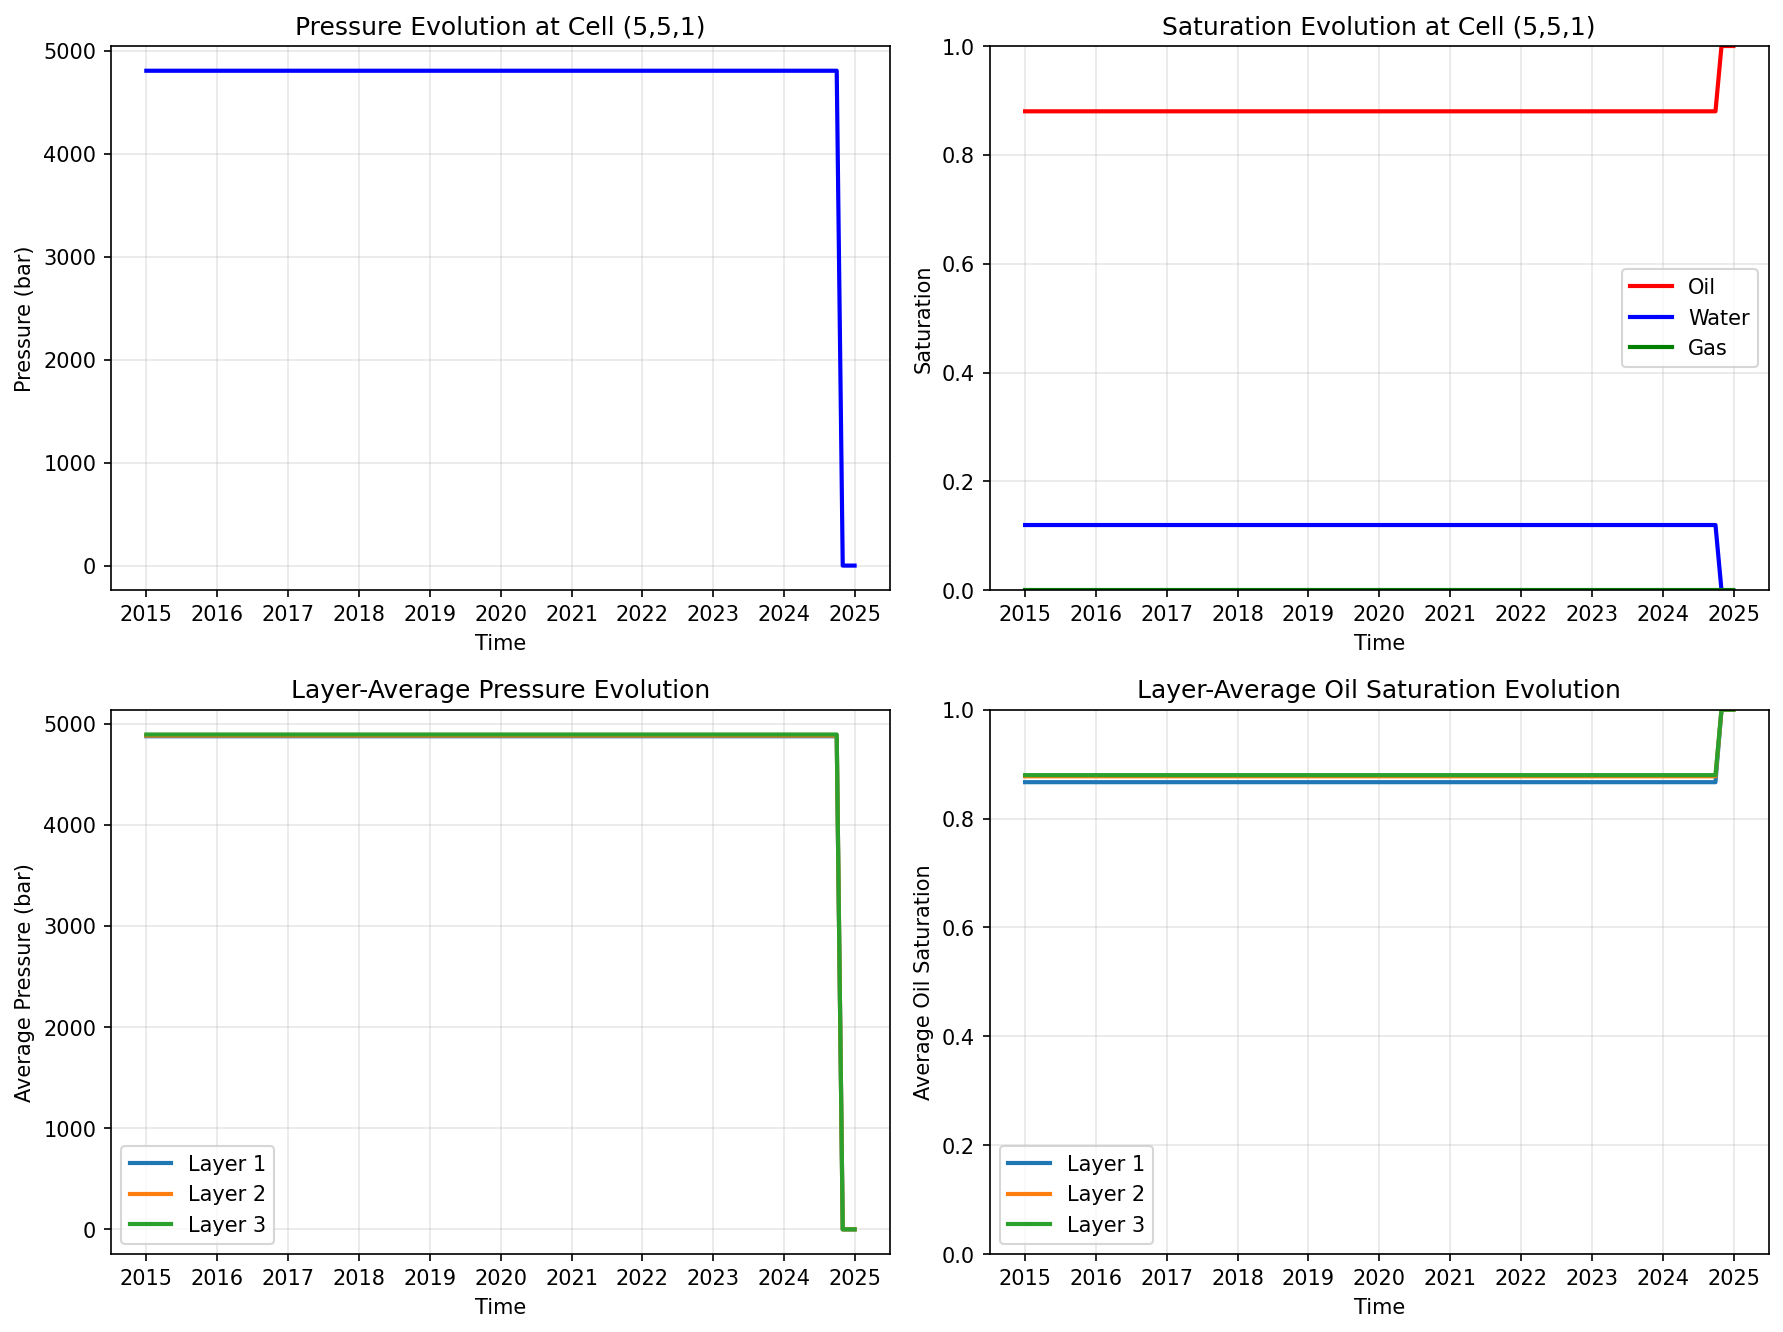
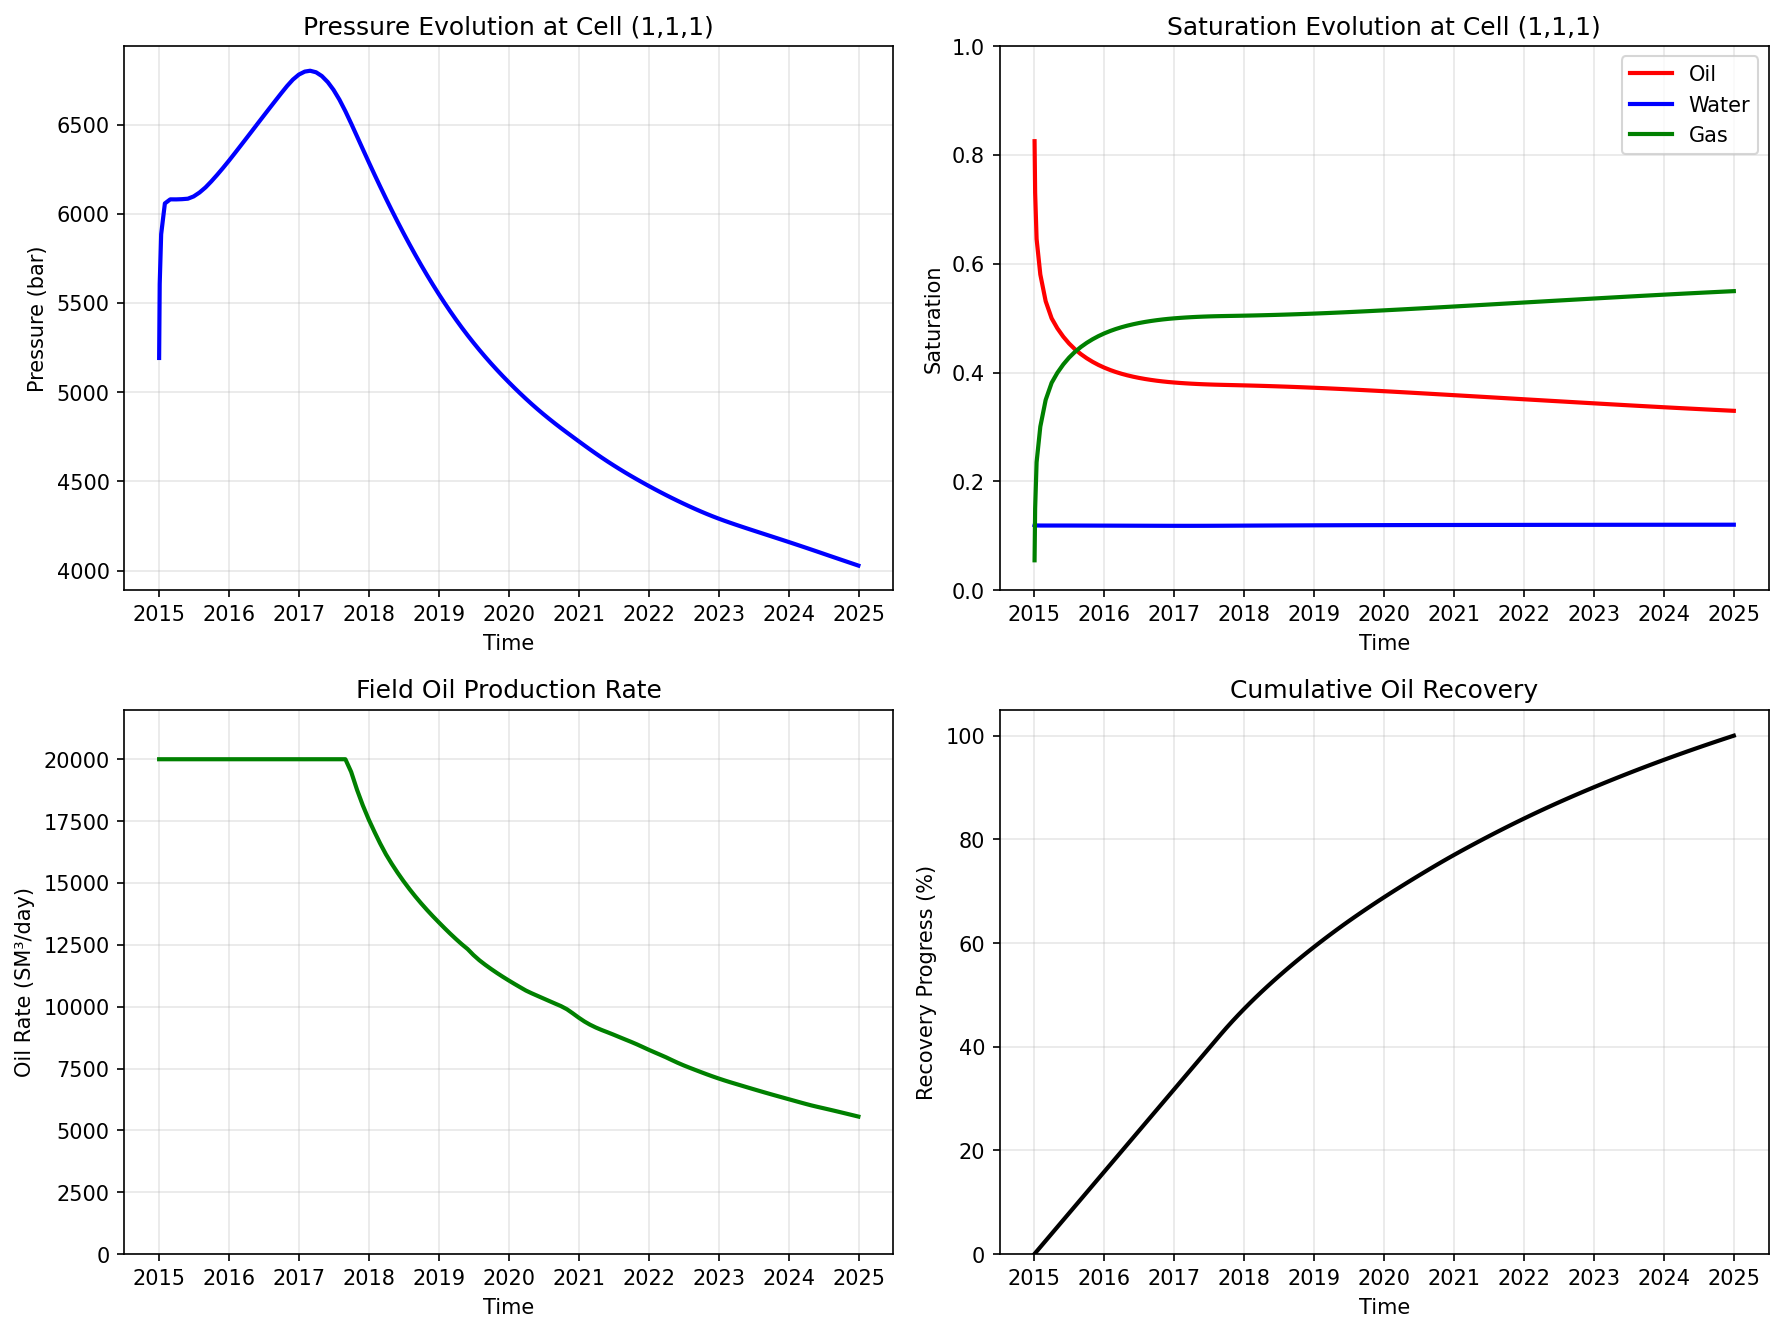
Update plots

diff --git a/viz_scripts/02_time_evolution_summary.py b/viz_scripts/02_time_evolution_summary.py
@@ -1,0 +1,82 @@
+#!/usr/bin/env python3
+"""Visualize time evolution using summary data."""
+import pandas as pd
+import matplotlib.pyplot as plt
+import numpy as np
+
+# Load summary data
+df = pd.read_parquet('patched/SPE1CASE1_PATCHED.parquet')
+
+# Create figure
+fig, ((ax1, ax2), (ax3, ax4)) = plt.subplots(2, 2, figsize=(12, 9))
+
+# Plot 1: Pressure evolution at monitored cell (1,1,1)
+ax1.plot(df.index, df['BPR:1,1,1'], 'b-', linewidth=2)
+ax1.set_xlabel('Time')
+ax1.set_ylabel('Pressure (bar)')
+ax1.set_title('Pressure Evolution at Cell (1,1,1)')
+ax1.grid(True, alpha=0.3)
+
+# Plot 2: Saturation evolution at monitored cell
+# Calculate oil saturation from water and gas
+soil = 1.0 - df['BWSAT:1,1,1'] - df['BGSAT:1,1,1']
+ax2.plot(df.index, soil, 'r-', label='Oil', linewidth=2)
+ax2.plot(df.index, df['BWSAT:1,1,1'], 'b-', label='Water', linewidth=2)
+ax2.plot(df.index, df['BGSAT:1,1,1'], 'g-', label='Gas', linewidth=2)
+ax2.set_xlabel('Time')
+ax2.set_ylabel('Saturation')
+ax2.set_title('Saturation Evolution at Cell (1,1,1)')
+ax2.legend()
+ax2.grid(True, alpha=0.3)
+ax2.set_ylim(0, 1)
+
+# Plot 3: Field oil production rate
+ax3.plot(df.index, df['FOPR'], 'g-', linewidth=2)
+ax3.set_xlabel('Time')
+ax3.set_ylabel('Oil Rate (SM³/day)')
+ax3.set_title('Field Oil Production Rate')
+ax3.grid(True, alpha=0.3)
+ax3.set_ylim(0, df['FOPR'].max() * 1.1)
+
+# Plot 4: Recovery factor
+initial_oil_rate = df['FOPR'].iloc[0]
+recovery_factor = (df['FOPT'] / df['FOPT'].iloc[-1]) * 100
+ax4.plot(df.index, recovery_factor, 'k-', linewidth=2)
+ax4.set_xlabel('Time')
+ax4.set_ylabel('Recovery Progress (%)')
+ax4.set_title('Cumulative Oil Recovery')
+ax4.grid(True, alpha=0.3)
+ax4.set_ylim(0, 105)
+
+plt.tight_layout()
+plt.savefig('figures/time_evolution.png', dpi=150, bbox_inches='tight')
+plt.close()
+
+# Create detailed saturation plot for monitored cell
+fig, ax = plt.subplots(figsize=(10, 6))
+
+# Stack plot
+ax.fill_between(df.index, 0, df['BWSAT:1,1,1'], color='blue', alpha=0.7, label='Water')
+ax.fill_between(df.index, df['BWSAT:1,1,1'], df['BWSAT:1,1,1'] + soil, color='red', alpha=0.7, label='Oil')
+ax.fill_between(df.index, df['BWSAT:1,1,1'] + soil, 1, color='green', alpha=0.7, label='Gas')
+
+ax.set_xlabel('Time', fontsize=12)
+ax.set_ylabel('Saturation', fontsize=12)
+ax.set_title('Fluid Saturation Evolution at Cell (1,1,1)', fontsize=14)
+ax.legend(loc='center left', bbox_to_anchor=(1, 0.5))
+ax.grid(True, alpha=0.3)
+ax.set_ylim(0, 1)
+
+plt.tight_layout()
+plt.savefig('figures/saturation_stack.png', dpi=150, bbox_inches='tight')
+plt.close()
+
+# Print summary statistics
+print("Cell (1,1,1) Evolution Summary:")
+print(f"  Pressure: {df['BPR:1,1,1'].iloc[0]:.0f} -> {df['BPR:1,1,1'].iloc[-1]:.0f} bar")
+print(f"  Oil saturation: {soil.iloc[0]:.3f} -> {soil.iloc[-1]:.3f}")
+print(f"  Water saturation: {df['BWSAT:1,1,1'].iloc[0]:.3f} -> {df['BWSAT:1,1,1'].iloc[-1]:.3f}")
+print(f"  Gas saturation: {df['BGSAT:1,1,1'].iloc[0]:.3f} -> {df['BGSAT:1,1,1'].iloc[-1]:.3f}")
+print(f"  Max gas saturation: {df['BGSAT:1,1,1'].max():.3f}")
+
+print("\nCreated: time_evolution.png, saturation_stack.png")

diff --git a/viz_scripts/02_time_evolution.py b/viz_scripts/02_time_evolution.py
@@ -10,8 +10,8 @@ with h5py.File('patched/SPE1CASE1_PATCHED.h5', 'r') as f:
     time_strings = f['time/dates'][:]
     dates = pd.to_datetime([t.decode() for t in time_strings])
     
-    # Get center cell evolution (5,5,1)
-    cx, cy, cz = 5, 5, 1
+    # Get interesting cell evolution (0,0,0) - near producer well
+    cx, cy, cz = 0, 0, 0
     pressure_center = f['grid_data/PRESSURE'][:, cx, cy, cz]
     swat_center = f['grid_data/SWAT'][:, cx, cy, cz]
     sgas_center = f['grid_data/SGAS'][:, cx, cy, cz]
@@ -31,20 +31,20 @@ soil_avg = 1.0 - swat_avg - sgas_avg
 # Create figure
 fig, ((ax1, ax2), (ax3, ax4)) = plt.subplots(2, 2, figsize=(12, 9))
 
-# Plot 1: Pressure evolution at center cell
+# Plot 1: Pressure evolution at producer cell
 ax1.plot(dates, pressure_center, 'b-', linewidth=2)
 ax1.set_xlabel('Time')
 ax1.set_ylabel('Pressure (bar)')
-ax1.set_title(f'Pressure Evolution at Cell ({cx},{cy},{cz})')
+ax1.set_title(f'Pressure Evolution at Cell ({cx},{cy},{cz}) - Near Producer')
 ax1.grid(True, alpha=0.3)
 
-# Plot 2: Saturation evolution at center cell
+# Plot 2: Saturation evolution at producer cell
 ax2.plot(dates, soil_center, 'r-', label='Oil', linewidth=2)
 ax2.plot(dates, swat_center, 'b-', label='Water', linewidth=2)
 ax2.plot(dates, sgas_center, 'g-', label='Gas', linewidth=2)
 ax2.set_xlabel('Time')
 ax2.set_ylabel('Saturation')
-ax2.set_title(f'Saturation Evolution at Cell ({cx},{cy},{cz})')
+ax2.set_title(f'Saturation Evolution at Cell ({cx},{cy},{cz}) - Near Producer')
 ax2.legend()
 ax2.grid(True, alpha=0.3)
 ax2.set_ylim(0, 1)
@@ -91,4 +91,24 @@ plt.tight_layout()
 plt.savefig('figures/oil_depletion_snapshots.png', dpi=150, bbox_inches='tight')
 plt.close()
 
-print("Created: time_evolution.png, oil_depletion_snapshots.png")
+# Create gas saturation snapshots
+fig, axes = plt.subplots(2, 3, figsize=(14, 8))
+layer = 0  # Top layer where gas appears most
+
+for i, (ax, t_idx) in enumerate(zip(axes.flat, time_indices)):
+    gas = sgas_all[t_idx, :, :, layer]
+    im = ax.imshow(gas.T, origin='lower', cmap='Greens', vmin=0, vmax=0.3)
+    ax.set_title(f'{dates[t_idx].strftime("%Y-%m")}')
+    ax.set_xlabel('X')
+    ax.set_ylabel('Y')
+    # Mark producer location
+    ax.plot(0, 0, 'k*', markersize=8)
+    if i == len(time_indices)-1:
+        plt.colorbar(im, ax=ax, fraction=0.046, label='Gas Saturation')
+
+fig.suptitle('Gas Saturation Evolution - Layer 1 (Top)', fontsize=14)
+plt.tight_layout()
+plt.savefig('figures/gas_evolution_snapshots.png', dpi=150, bbox_inches='tight')
+plt.close()
+
+print("Created: time_evolution.png, oil_depletion_snapshots.png, gas_evolution_snapshots.png")

diff --git a/viz_scripts/find_interesting_cell.py b/viz_scripts/find_interesting_cell.py
@@ -1,0 +1,46 @@
+#!/usr/bin/env python3
+"""Find the most interesting grid cell with maximum variation."""
+import h5py
+import numpy as np
+
+with h5py.File('patched/SPE1CASE1_PATCHED.h5', 'r') as f:
+    swat = f['grid_data/SWAT'][:]
+    sgas = f['grid_data/SGAS'][:]
+    pressure = f['grid_data/PRESSURE'][:]
+    
+    # Calculate oil saturation
+    soil = 1.0 - swat - sgas
+    
+    # Calculate variation for each cell
+    swat_var = np.var(swat, axis=0)
+    sgas_var = np.var(sgas, axis=0)
+    soil_var = np.var(soil, axis=0)
+    pressure_var = np.var(pressure, axis=0)
+    
+    # Combined variation score
+    total_var = swat_var + sgas_var + soil_var + pressure_var/1000
+    
+    # Find cell with maximum variation
+    max_idx = np.unravel_index(np.argmax(total_var), total_var.shape)
+    cx, cy, cz = max_idx
+    
+    print(f"Most interesting cell: ({cx}, {cy}, {cz})")
+    print(f"\nVariations at this cell:")
+    print(f"  Water sat: {swat_var[cx,cy,cz]:.4f}")
+    print(f"  Gas sat: {sgas_var[cx,cy,cz]:.4f}")
+    print(f"  Oil sat: {soil_var[cx,cy,cz]:.4f}")
+    print(f"  Pressure: {pressure_var[cx,cy,cz]:.1f}")
+    
+    print(f"\nSaturation ranges at cell ({cx}, {cy}, {cz}):")
+    print(f"  Water: {swat[:,cx,cy,cz].min():.3f} to {swat[:,cx,cy,cz].max():.3f}")
+    print(f"  Gas: {sgas[:,cx,cy,cz].min():.3f} to {sgas[:,cx,cy,cz].max():.3f}")
+    print(f"  Oil: {soil[:,cx,cy,cz].min():.3f} to {soil[:,cx,cy,cz].max():.3f}")
+    
+    # Also check cells near wells
+    print("\n\nCells near wells (corners and center):")
+    interesting_cells = [(0,0,0), (9,9,2), (0,9,0), (9,0,2), (5,5,1)]
+    
+    for x, y, z in interesting_cells:
+        oil_change = soil[0,x,y,z] - soil[-1,x,y,z]
+        gas_max = sgas[:,x,y,z].max()
+        print(f"  Cell ({x},{y},{z}): Oil change={oil_change:.3f}, Max gas={gas_max:.3f}")

diff --git a/viz_scripts/01_reservoir_overview.py b/viz_scripts/01_reservoir_overview.py
@@ -13,9 +13,9 @@ with h5py.File('patched/SPE1CASE1_PATCHED.h5', 'r') as f:
     sgas_init = f['grid_data/SGAS'][0, :, :, :]
     soil_init = 1.0 - swat_init - sgas_init
 
-# Create figure
-fig = plt.figure(figsize=(12, 10))
-gs = gridspec.GridSpec(3, 3, figure=fig, hspace=0.3, wspace=0.3)
+# Create figure with 4 rows instead of 3
+fig = plt.figure(figsize=(12, 13))
+gs = gridspec.GridSpec(4, 3, figure=fig, hspace=0.3, wspace=0.3)
 
 # Plot initial pressure for each layer
 for k in range(nz):
@@ -25,6 +25,9 @@ for k in range(nz):
     ax.set_xlabel('X')
     ax.set_ylabel('Y')
     plt.colorbar(im, ax=ax, fraction=0.046)
+    # Mark the monitored cell (1,1,1) 
+    if k == 1:
+        ax.plot(0, 0, 'k*', markersize=10)
 
 # Plot initial oil saturation for each layer
 for k in range(nz):
@@ -40,6 +43,15 @@ for k in range(nz):
     ax = fig.add_subplot(gs[2, k])
     im = ax.imshow(swat_init[:, :, k].T, origin='lower', cmap='Blues', vmin=0, vmax=1)
     ax.set_title(f'Layer {k+1} Water Saturation')
+    ax.set_xlabel('X')
+    ax.set_ylabel('Y')
+    plt.colorbar(im, ax=ax, fraction=0.046)
+
+# Plot gas saturation for each layer
+for k in range(nz):
+    ax = fig.add_subplot(gs[3, k])
+    im = ax.imshow(sgas_init[:, :, k].T, origin='lower', cmap='Greens', vmin=0, vmax=1)
+    ax.set_title(f'Layer {k+1} Gas Saturation')
     ax.set_xlabel('X')
     ax.set_ylabel('Y')
     plt.colorbar(im, ax=ax, fraction=0.046)

diff --git a/README.md b/README.md
@@ -203,15 +203,18 @@ The cross-section view shows the three-layer structure with pressure increasing 
 
 ![Time Evolution](figures/time_evolution.png)
 
-Over the 10-year production period:
-- **Pressure declines** as fluids are produced
-- **Water saturation increases** as water moves in to replace produced oil
-- **Gas saturation increases** as pressure drops below bubble point
-- **Oil saturation decreases** as oil is produced
+The plots show evolution at the monitored cell (1,1,1). Over the 10-year production period:
+- **Pressure declines** from 5,192 to 4,028 bar (22% reduction)
+- **Gas saturation increases dramatically** from 5.5% to 55% as pressure falls below bubble point
+- **Oil saturation decreases** from 82.5% to 33% (60% relative reduction)
+- **Water saturation remains stable** around 12%
 
-![Oil Depletion](figures/oil_depletion_snapshots.png)
+![Saturation Stack](figures/saturation_stack.png)
 
-These snapshots show how oil (red) is gradually displaced by water and gas over the production period. The depletion pattern is influenced by well locations and reservoir properties.
+This stacked area chart clearly shows the fluid displacement at cell (1,1,1). As production proceeds:
+- Gas (green) expands significantly as dissolved gas comes out of solution
+- Oil (red) is produced, reducing from over 80% to about 33%
+- Water (blue) remains relatively constant at the bottom
 
 ### Production Performance
 
@@ -223,46 +226,41 @@ Key production metrics:
 - **Recovery factor** approaches 30% of original oil in place
 - **Average pressure** declines from ~380 to ~340 bar
 
-## Accessing the Full Dataset
+## Accessing the Dataset
 
-### HDF5 Format
+### Summary Data (Parquet Format)
 
-The complete grid timeseries data is stored in `patched/SPE1CASE1_PATCHED.h5`:
+The time-series summary data is available in `patched/SPE1CASE1_PATCHED.parquet`:
 
 ```python
-import h5py
-import numpy as np
+import pandas as pd
 
-# Open the dataset
-with h5py.File('patched/SPE1CASE1_PATCHED.h5', 'r') as f:
-    # Get dimensions
-    nx, ny, nz = f.attrs['nx'], f.attrs['ny'], f.attrs['nz']
-    n_timesteps = f.attrs['n_timesteps']
-    
-    # Access pressure data (4D array: time × x × y × z)
-    pressure = f['grid_data/PRESSURE'][:]
-    
-    # Get pressure evolution at specific cell
-    cell_pressure = pressure[:, 5, 5, 1]  # Cell (5,5,1) over time
-    
-    # Get pressure distribution at specific time
-    pressure_t50 = pressure[50, :, :, :]  # 3D grid at timestep 50
+# Load summary data
+df = pd.read_parquet('patched/SPE1CASE1_PATCHED.parquet')
+
+# Available columns:
+# - BPR:1,1,1 - Pressure at cell (1,1,1) in bars
+# - BWSAT:1,1,1 - Water saturation at cell (1,1,1)
+# - BGSAT:1,1,1 - Gas saturation at cell (1,1,1)
+# - FOPR - Field oil production rate (SM³/day)
+# - FOPT - Cumulative oil production (SM³)
+
+# Calculate oil saturation
+oil_sat = 1.0 - df['BWSAT:1,1,1'] - df['BGSAT:1,1,1']
+
+# Plot pressure evolution
+df['BPR:1,1,1'].plot()
 ```
 
-### Available Properties
+### Binary Output Files
 
-1. **PRESSURE** - Reservoir pressure in bars
-2. **SWAT** - Water saturation (fraction, 0-1)
-3. **SGAS** - Gas saturation (fraction, 0-1)
-4. **RS** - Dissolved gas-oil ratio
+The simulation also produces binary output files in Eclipse format:
+- `*.UNSMRY` / `*.SMSPEC` - Summary data (field rates, well data, selected cells)
+- `*.UNRST` - Unified restart file with full grid properties at each report step
+- `*.INIT` - Initial grid properties
+- `*.EGRID` - Grid geometry
 
-Note: Oil saturation can be calculated as: `SOIL = 1.0 - SWAT - SGAS`
-
-### Data Structure
-
-- **Shape**: (123 timesteps, 10 x-cells, 10 y-cells, 3 layers)
-- **Time span**: Monthly data from 2015-01-01 to 2024-12-31
-- **File size**: ~6 MB (compressed HDF5)
+These can be read using the `resdata` Python package for more detailed analysis.
 
 ## Visualization Scripts
 
